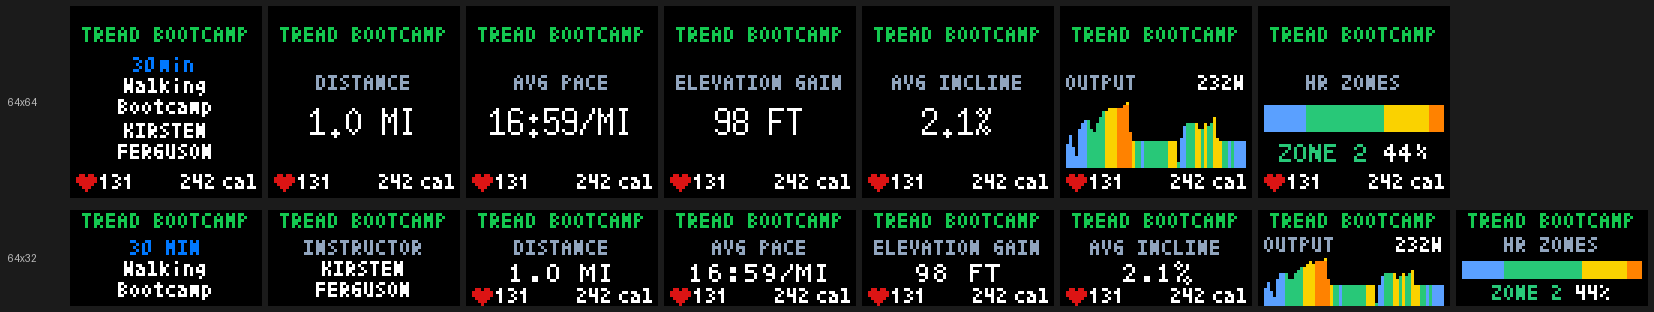
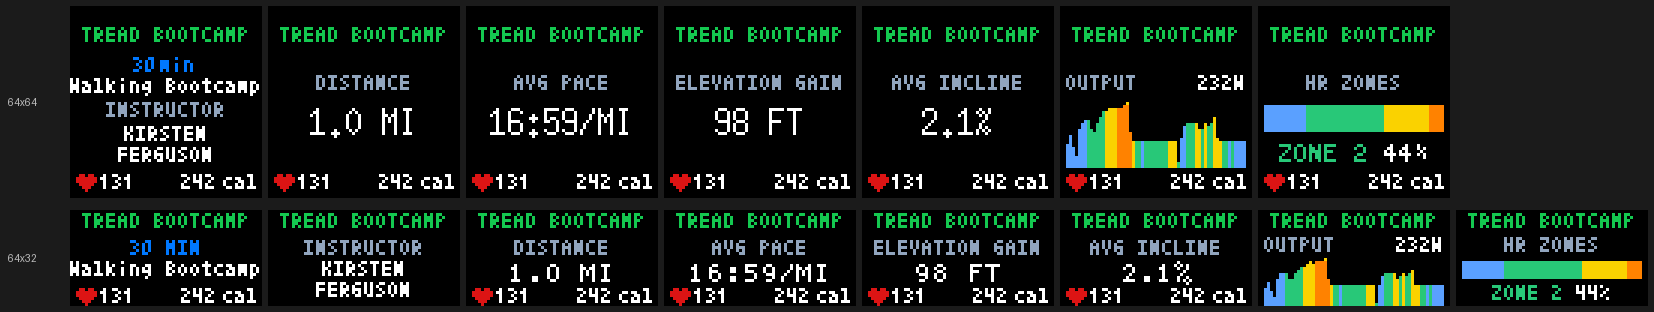
Workout intro: title edge to edge; instructor caption before the heart-rate row
The class title now wraps at the panel's full 64 px on both boards (a line
may start at column 0), so "Arms & Shoulders Strength" shows as
"Arms & Shoulders" / "Strength" instead of "Arms &" / "Shoulders Stren".
Cut titles across both riders' logs: 231 workouts -> 94.

On 64x64 the intro is laid out top to bottom and the heart-rate row is the
first to go: a two-line instructor name keeps its INSTRUCTOR caption, and
when caption and name don't clear the heart-rate row (a two-line title),
the intro drops the row, as 64x32 does. Stat frames keep it.

Changed region(s): [[0.0308, 0.2308, 0.1542, 0.5192], [0.0308, 0.8365, 0.1542, 0.9808]]

diff --git a/tests/test_64x32.py b/tests/test_64x32.py
@@ -276,3 +276,103 @@ def test_pr_is_marked_with_a_trophy_on_both_boards(height):
 def test_titles_lose_the_length_the_page_shows(title, expected):
     from display.ui.last_workout_screen import title_without_length
     assert title_without_length(title) == expected
+
+
+# ---- the workout title runs edge to edge (Joel, 2026-11-16) ------------------------------------------------
+class EdgeMatrix(ImageMatrix):
+    """Counts lit pixels drawn off the panel (ImageMatrix drops them silently)."""
+    def Clear(self):
+        super().Clear()
+        self.off_panel = 0
+
+    def SetPixel(self, x, y, r, g, b):
+        if not (0 <= x < self.width and 0 <= y < self.height) and (r or g or b):
+            self.off_panel += 1
+        super().SetPixel(x, y, r, g, b)
+
+
+def white_text(monkeypatch, summary, height, elapsed=0.5):
+    """The (x, text) of every white string the page draws, checking nothing lands off the panel."""
+    import display.ui.last_workout_screen as screen_module
+    drawn, draw = [], screen_module._draw_text
+
+    def spy(matrix, font, x, y, color, text):
+        if color is screen_module._WHITE:
+            drawn.append((x, text))
+        return draw(matrix, font, x, y, color, text)
+    monkeypatch.setattr(screen_module, '_draw_text', spy)
+    initialize_fonts(height)
+    matrix = EdgeMatrix(height=height)
+    screen = LastWorkoutScreen()
+    screen.on_enter(matrix, summary)
+    screen.update(elapsed)
+    assert screen.render(matrix, summary)
+    assert matrix.off_panel == 0
+    return drawn
+
+
+@pytest.mark.parametrize('height', [32, 64])
+def test_a_title_that_fills_the_width_is_not_cut(monkeypatch, height):
+    # "Arms & Shoulders" is 64 px of 4x6 text: with a 2 px margin the page showed "Arms &" / "Shoulders Stren".
+    summary = {**STRENGTH, 'title': '20 min Arms & Shoulders Strength', 'instructor': 'Jess Sims'}
+    drawn = white_text(monkeypatch, summary, height)
+    assert (0, 'Arms & Shoulders') in drawn
+    assert 'Strength' in [text for _, text in drawn]
+
+
+# The longest titles in the riders' logs, plus the widest discipline header.
+LONG_TITLES = ['45 min Advanced Power Zone Endurance Ride', '20 min Arms & Shoulders Strength',
+               '33 min Post-Ride Stretch: Imagine Dragons', '10 min HiLit+: Lower Body Strength W2 D5',
+               '30 min Spring Cross-Training Core: W1 D3', '10 min Foam Rolling: Quads & Hamstrings',
+               '20 min Best Case of the Mondays Meditation', '15 min Teacher Appreciation Bodyweight',
+               '20 min Bad Boy Entertainment Full Body']
+
+
+@pytest.mark.parametrize('height', [32, 64])
+@pytest.mark.parametrize('flags', [{}, {'login_required': True}, {'data_stale': True},
+                                   {'login_required': True, 'data_stale': True}])
+@pytest.mark.parametrize('title', LONG_TITLES)
+def test_long_titles_stay_on_the_panel_and_clear_the_icons(monkeypatch, height, flags, title):
+    summary = {**STRENGTH, 'discipline': 'Tread Bootcamp', 'title': title, **flags}
+    drawn = white_text(monkeypatch, summary, height)
+    assert drawn and all(x >= 0 for x, _ in drawn)
+    if height == 32:
+        matrix = frame(summary, 0.5)
+        if flags.get('login_required'):
+            assert [y for y in rows_of(matrix, WHITE, range(55, 64)) if y >= 23] == []
+        if flags.get('data_stale'):
+            assert [y for y in rows_of(matrix, WHITE, range(0, 9)) if y >= 23] == []
+
+
+# ---- 64x64 intro, top to bottom: the instructor caption goes first when room runs out (Joel, 2026-11-17) ----
+@pytest.mark.parametrize('discipline', ['Tread Bootcamp', 'Bike Bootcamp'])  # one- and two-line headers
+def test_64_row_two_line_instructor_keeps_its_caption_under_a_one_line_title(discipline):
+    summary = {**STRENGTH, 'discipline': discipline, 'title': '30 min Walking Bootcamp',
+               'instructor': 'Kirsten Ferguson'}
+    matrix = frame(summary, 0.5, 64)
+    caption = rows_of(matrix, GREY)
+    heart = rows_of(matrix, HEART)
+    assert caption, 'INSTRUCTOR caption missing'
+    names = [y for y in rows_of(matrix, WHITE) if caption[-1] < y < heart[0]]
+    assert sum(1 for a, b in zip([None] + names, names) if a is None or b > a + 1) == 2  # two name lines
+    assert names[-1] <= heart[0] - 3  # two blank rows above the heart-rate row
+    title_bottom = max(y for y in rows_of(matrix, WHITE) if y < caption[0])
+    assert caption[0] - title_bottom >= 3  # two blank rows under the title
+
+
+@pytest.mark.parametrize('discipline', ['Strength', 'Bike Bootcamp'])  # one- and two-line headers
+def test_64_row_two_line_title_and_instructor_keep_the_caption_and_drop_the_heart_rate_row(monkeypatch, discipline):
+    # Caption and name don't clear the heart-rate row under a two-line title: the intro goes without the row.
+    summary = {**STRENGTH, 'discipline': discipline, 'title': '20 min Full Body Strength',
+               'instructor': 'Matty Maggiacomo'}
+    matrix = frame(summary, 0.5, 64)
+    caption = rows_of(matrix, GREY)
+    assert caption, 'INSTRUCTOR caption missing'
+    assert rows_of(matrix, HEART) == []
+    names = [y for y in rows_of(matrix, WHITE) if y > caption[-1]]
+    assert sum(1 for a, b in zip([None] + names, names) if a is None or b > a + 1) == 2
+    assert names[-1] <= 62
+    title_bottom = max(y for y in rows_of(matrix, WHITE) if y < caption[0])
+    assert caption[0] - title_bottom >= 3
+    white_text(monkeypatch, summary, 64)  # nothing off the panel
+    assert rows_of(frame(summary, 4.5, 64), HEART), 'stat frames keep the heart-rate row'

diff --git a/display/ui/last_workout_screen.py b/display/ui/last_workout_screen.py
@@ -918,18 +918,19 @@ def _draw_short_lines(matrix, font, lines: List[str], top_y: int, summary: dict,
                       clear_icons: bool = True) -> None:
     """Up to two centered 4x6 lines, 7px apart, for the 32-row layout.
 
-    The second line sits on the bottom rows, so a workout title narrows it to clear the
-    login padlock (bottom right) and stale-data clock (bottom left) when shown. An instructor
-    name passes clear_icons=False: it is drawn the same every time and an icon may cover its
-    ends, which is the point of the icon.
+    Lines may run the panel's full width (a workout title is wrapped to it). The second line
+    sits on the bottom rows, so a workout title narrows it to clear the login padlock (bottom
+    right) and stale-data clock (bottom left) when shown. An instructor name passes
+    clear_icons=False: it is drawn the same every time and an icon may cover its ends, which
+    is the point of the icon.
     """
     w = matrix.width
     for i, line in enumerate(lines[:2]):
         if i == 1 and clear_icons:
-            left = 9 if summary.get('data_stale') else 2
-            right = 9 if summary.get('login_required') else 2
+            left = 9 if summary.get('data_stale') else 0
+            right = 9 if summary.get('login_required') else 0
             line = _truncate(font, line, w - 2 * max(left, right))
-        tx = max((w - _text_width(font, line)) // 2, 2)
+        tx = max((w - _text_width(font, line)) // 2, 0)
         _draw_text(matrix, font, tx, top_y + i * 7, _WHITE, line)
 
 
@@ -1054,7 +1055,9 @@ class LastWorkoutScreen(Screen):
             if summary.get("is_pr"):
                 _draw_trophy(matrix, w - _TROPHY_W - 2, 9)
             title = title_without_length(summary.get("title"))
-            title_lines = _wrap_two_lines(text_font, title, w - 4)
+            # The full width, edge to edge: a 2 px margin cut titles like "Arms & Shoulders Strength"
+            # mid-word (Joel, 2026-11-16).
+            title_lines = _wrap_two_lines(text_font, title, w)
             _draw_short_lines(matrix, text_font, title_lines, 22, summary)
             if len(title_lines) < 2:
                 # A one-line title leaves rows 24-31 free for the bar. A two-line one ends on
@@ -1138,6 +1141,7 @@ class LastWorkoutScreen(Screen):
         stat_details = rotating_details(summary, matrix.height)
         instructor_detail = next((d for d in all_details if d['label'] == 'instructor'), None)
         in_intro = self.elapsed < self.detail_interval
+        intro_without_hr = False  # set below when the instructor block needs the heart-rate row's rows
         if not in_intro and self._insight_frame(matrix, summary, discipline):
             return True
 
@@ -1178,9 +1182,10 @@ class LastWorkoutScreen(Screen):
 
             # ── Lines 3–4: title below the duration with a visible gap ──────
             title_stripped = title_without_length(summary.get("title"))
-            title_lines = _wrap_two_lines(text_font, title_stripped, w - 4)
+            # Edge to edge, as on 32 rows (Joel, 2026-11-16).
+            title_lines = _wrap_two_lines(text_font, title_stripped, w)
             for i, line in enumerate(title_lines[:2]):
-                tx = max((w - _text_width(text_font, line)) // 2, 2)
+                tx = max((w - _text_width(text_font, line)) // 2, 0)
                 _draw_text(matrix, text_font, tx, dur_y + 7 + i * 7, _WHITE, line)
             header_bottom = dur_y + 7 + max(len(title_lines[:2]) - 1, 0) * 7
 
@@ -1196,9 +1201,16 @@ class LastWorkoutScreen(Screen):
                 value_font = text_font
                 value_lines = _wrap_two_lines(value_font, instructor_detail['value'].upper(), w - 4)[:2]
                 mid_y = available_top + (available_bottom - available_top) // 2 - 3
-                show_label = len(value_lines) == 1
-                block_lines = (1 if show_label else 0) + len(value_lines)
+                show_label = True
+                block_lines = 1 + len(value_lines)
                 y = max(mid_y - 3 * (block_lines - 1), min_top) + two_line_extra
+                if len(value_lines) > 1:
+                    # Top to bottom: discipline, duration, title, the whole instructor block (caption
+                    # 2 blank rows under the title), then the heart-rate row, which is the first to go:
+                    # when the name's last line doesn't clear it (rows 56 on) by 2, the intro drops the
+                    # row, as 64x32 does under a two-line title; the stat frames keep it (Joel, 2026-11-17).
+                    y = max(y, header_bottom + 8)
+                    intro_without_hr = y + 8 + 7 > _BOTTOM_Y - 8
                 if show_label:
                     label_text = _truncate(stat_font, "INSTRUCTOR", w - 4)
                     lx = max((w - _text_width(stat_font, label_text)) // 2, 2)
@@ -1247,7 +1259,8 @@ class LastWorkoutScreen(Screen):
                     star_x = vx + get_text_width(value_font, value_text) + 2
                     _draw_trophy(matrix, min(star_x, w - _TROPHY_W), value_y + offset - _TROPHY_H)
 
-        _draw_hr_calories(matrix, summary, stat_font, _BOTTOM_Y)
+        if not intro_without_hr:
+            _draw_hr_calories(matrix, summary, stat_font, _BOTTOM_Y)
 
         # ── PR trophy, where the "PR" letters used to sit ─────────────────
         # Intro only: in the stats phase it would touch wide labels, and the

diff --git a/docs/dev/ROTATION.md b/docs/dev/ROTATION.md
@@ -42,4 +42,4 @@ A PR celebration (`pr` page after a record workout) is windowed like a milestone
 
 ## Workout-page stats
 
-Workout-page stats come from `_stat_details` in `display/ui/last_workout_screen.py` (routed by equipment: bike, tread/outdoor, row, everything else). Number formats match the Peloton app (`_fmt_strive`, `_fmt_distance`, `_fmt_output`, `_whole` rounds half up). `docs/DATA-POINTS.md` records which stats Peloton sends per equipment (from the raw responses in `perf_graphs/`) against which the board shows, plus stats/screens per workout; update it when changing `_stat_details`. After the stats, `rotating_details` appends chart slides (`kind`): `graph`, `zones`, `top_lift` or `muscles` (top 3 from `summaries.muscle_groups`; only for disciplines in `MUSCLE_DISCIPLINES`, just Strength for now, though most workouts carry `muscle_group_score`); each holds `GRAPH_FRAME_EXTRA_SECONDS` longer, and `build_rotation_pages` sizes the page from the same list. A strength class Peloton's movement tracker counted (`summary['strength']`, from `summaries.strength_tracker` over the workout detail; validated again by the screen's `strength_tracker`, since the cache can hold anything) adds `TOTAL REPS`, `TOTAL VOLUME` (weight x reps; none on bodyweight classes) and `TARGETS HIT` (share of movements that hit their rep target, the value in the gold/silver/bronze tier colour, `TRACKER_TIER_COLORS`; white with no tier or `inprogress`) after Strive, and a `TOP LIFT` slide (the movement Peloton tags `most_volume`, else `most_reps`: its name on up to two lines, then reps x the heaviest weight in gold, `top_lift_text`; 64x32 gives it the whole panel, like the graph). A tracked class drops the `muscles` slide (Joel, 2026-11-13: the page would otherwise run 44 s; it's 39 s on 64x64), so an untracked one keeps it. Chosen from real-data mock-ups on 2026-11-13; rejected: one slide of all three figures (cramped, and overlaps the title and heart-rate row on 32 rows), the target streak (overlaps targets hit) and Peloton's form tip (median 24 characters, up to 53: runs off a 64x64 page and can't fit 32 rows).
+The workout page's intro wraps the class title (`title_without_length`) to two lines at the panel's full width, starting at column 0 when it needs to (Joel, 2026-11-16: the old 2 px margin cut `Arms & Shoulders Strength` mid-word on both heights); on 32 rows the second line still narrows for the corner icons (`docs/64x32-NOTES.md`). On 64x64 the intro is laid out top to bottom (discipline, duration, title, the whole instructor block: `INSTRUCTOR` caption and name, then the heart-rate row) and the heart-rate row is the first thing to go: a two-line name's caption sits 2 blank rows under the title, and when the name's last line doesn't clear the heart-rate row (row 56) by 2, which happens under a two-line title (201 of the riders' logged workouts, e.g. `Full Body Strength` with Matty Maggiacomo), the intro drops the row, as 64x32 does under a two-line title; the stat frames keep it (Joel, 2026-11-17; until then a two-line name always dropped its caption). `tests/test_64x32.py` covers both header heights. Workout-page stats come from `_stat_details` in `display/ui/last_workout_screen.py` (routed by equipment: bike, tread/outdoor, row, everything else). Number formats match the Peloton app (`_fmt_strive`, `_fmt_distance`, `_fmt_output`, `_whole` rounds half up). `docs/DATA-POINTS.md` records which stats Peloton sends per equipment (from the raw responses in `perf_graphs/`) against which the board shows, plus stats/screens per workout; update it when changing `_stat_details`. After the stats, `rotating_details` appends chart slides (`kind`): `graph`, `zones`, `top_lift` or `muscles` (top 3 from `summaries.muscle_groups`; only for disciplines in `MUSCLE_DISCIPLINES`, just Strength for now, though most workouts carry `muscle_group_score`); each holds `GRAPH_FRAME_EXTRA_SECONDS` longer, and `build_rotation_pages` sizes the page from the same list. A strength class Peloton's movement tracker counted (`summary['strength']`, from `summaries.strength_tracker` over the workout detail; validated again by the screen's `strength_tracker`, since the cache can hold anything) adds `TOTAL REPS`, `TOTAL VOLUME` (weight x reps; none on bodyweight classes) and `TARGETS HIT` (share of movements that hit their rep target, the value in the gold/silver/bronze tier colour, `TRACKER_TIER_COLORS`; white with no tier or `inprogress`) after Strive, and a `TOP LIFT` slide (the movement Peloton tags `most_volume`, else `most_reps`: its name on up to two lines, then reps x the heaviest weight in gold, `top_lift_text`; 64x32 gives it the whole panel, like the graph). A tracked class drops the `muscles` slide (Joel, 2026-11-13: the page would otherwise run 44 s; it's 39 s on 64x64), so an untracked one keeps it. Chosen from real-data mock-ups on 2026-11-13; rejected: one slide of all three figures (cramped, and overlaps the title and heart-rate row on 32 rows), the target streak (overlaps targets hit) and Peloton's form tip (median 24 characters, up to 53: runs off a 64x64 page and can't fit 32 rows).

diff --git a/docs/64x32-NOTES.md b/docs/64x32-NOTES.md
@@ -74,6 +74,14 @@ What's different from 64x64, and why:
    clock is showing, so it doesn't run under the icons. A two-line instructor
    name is not: it is drawn the same every time (2026-11-09, Joel) and an icon
    may cover its ends, since the icon says the board isn't fully working.
+7. **The class title runs edge to edge** (2026-11-16, Joel, on both heights):
+   it wraps at the full 64 px and a line may start at column 0. With a 2 px
+   margin, "Arms & Shoulders Strength" (64 px for its first two words) showed
+   as "Arms &" / "Shoulders Stren"; across both riders' logs that cut 231
+   workouts, now 94 (titles like "HiLit+: Low Impact Cardio W1 D1" still don't
+   fit in two lines). The icon clearance on the second line is unchanged, and
+   the first line's descenders never reach the icons' rows (checked over all
+   1,202 logged titles; `tests/test_64x32.py` `LONG_TITLES`).
 
 The old two-page 32-row layout (`display.compact_workout_pages`) was removed
 on 2026-11-08 at Joel's request; an old config's setting is ignored.
